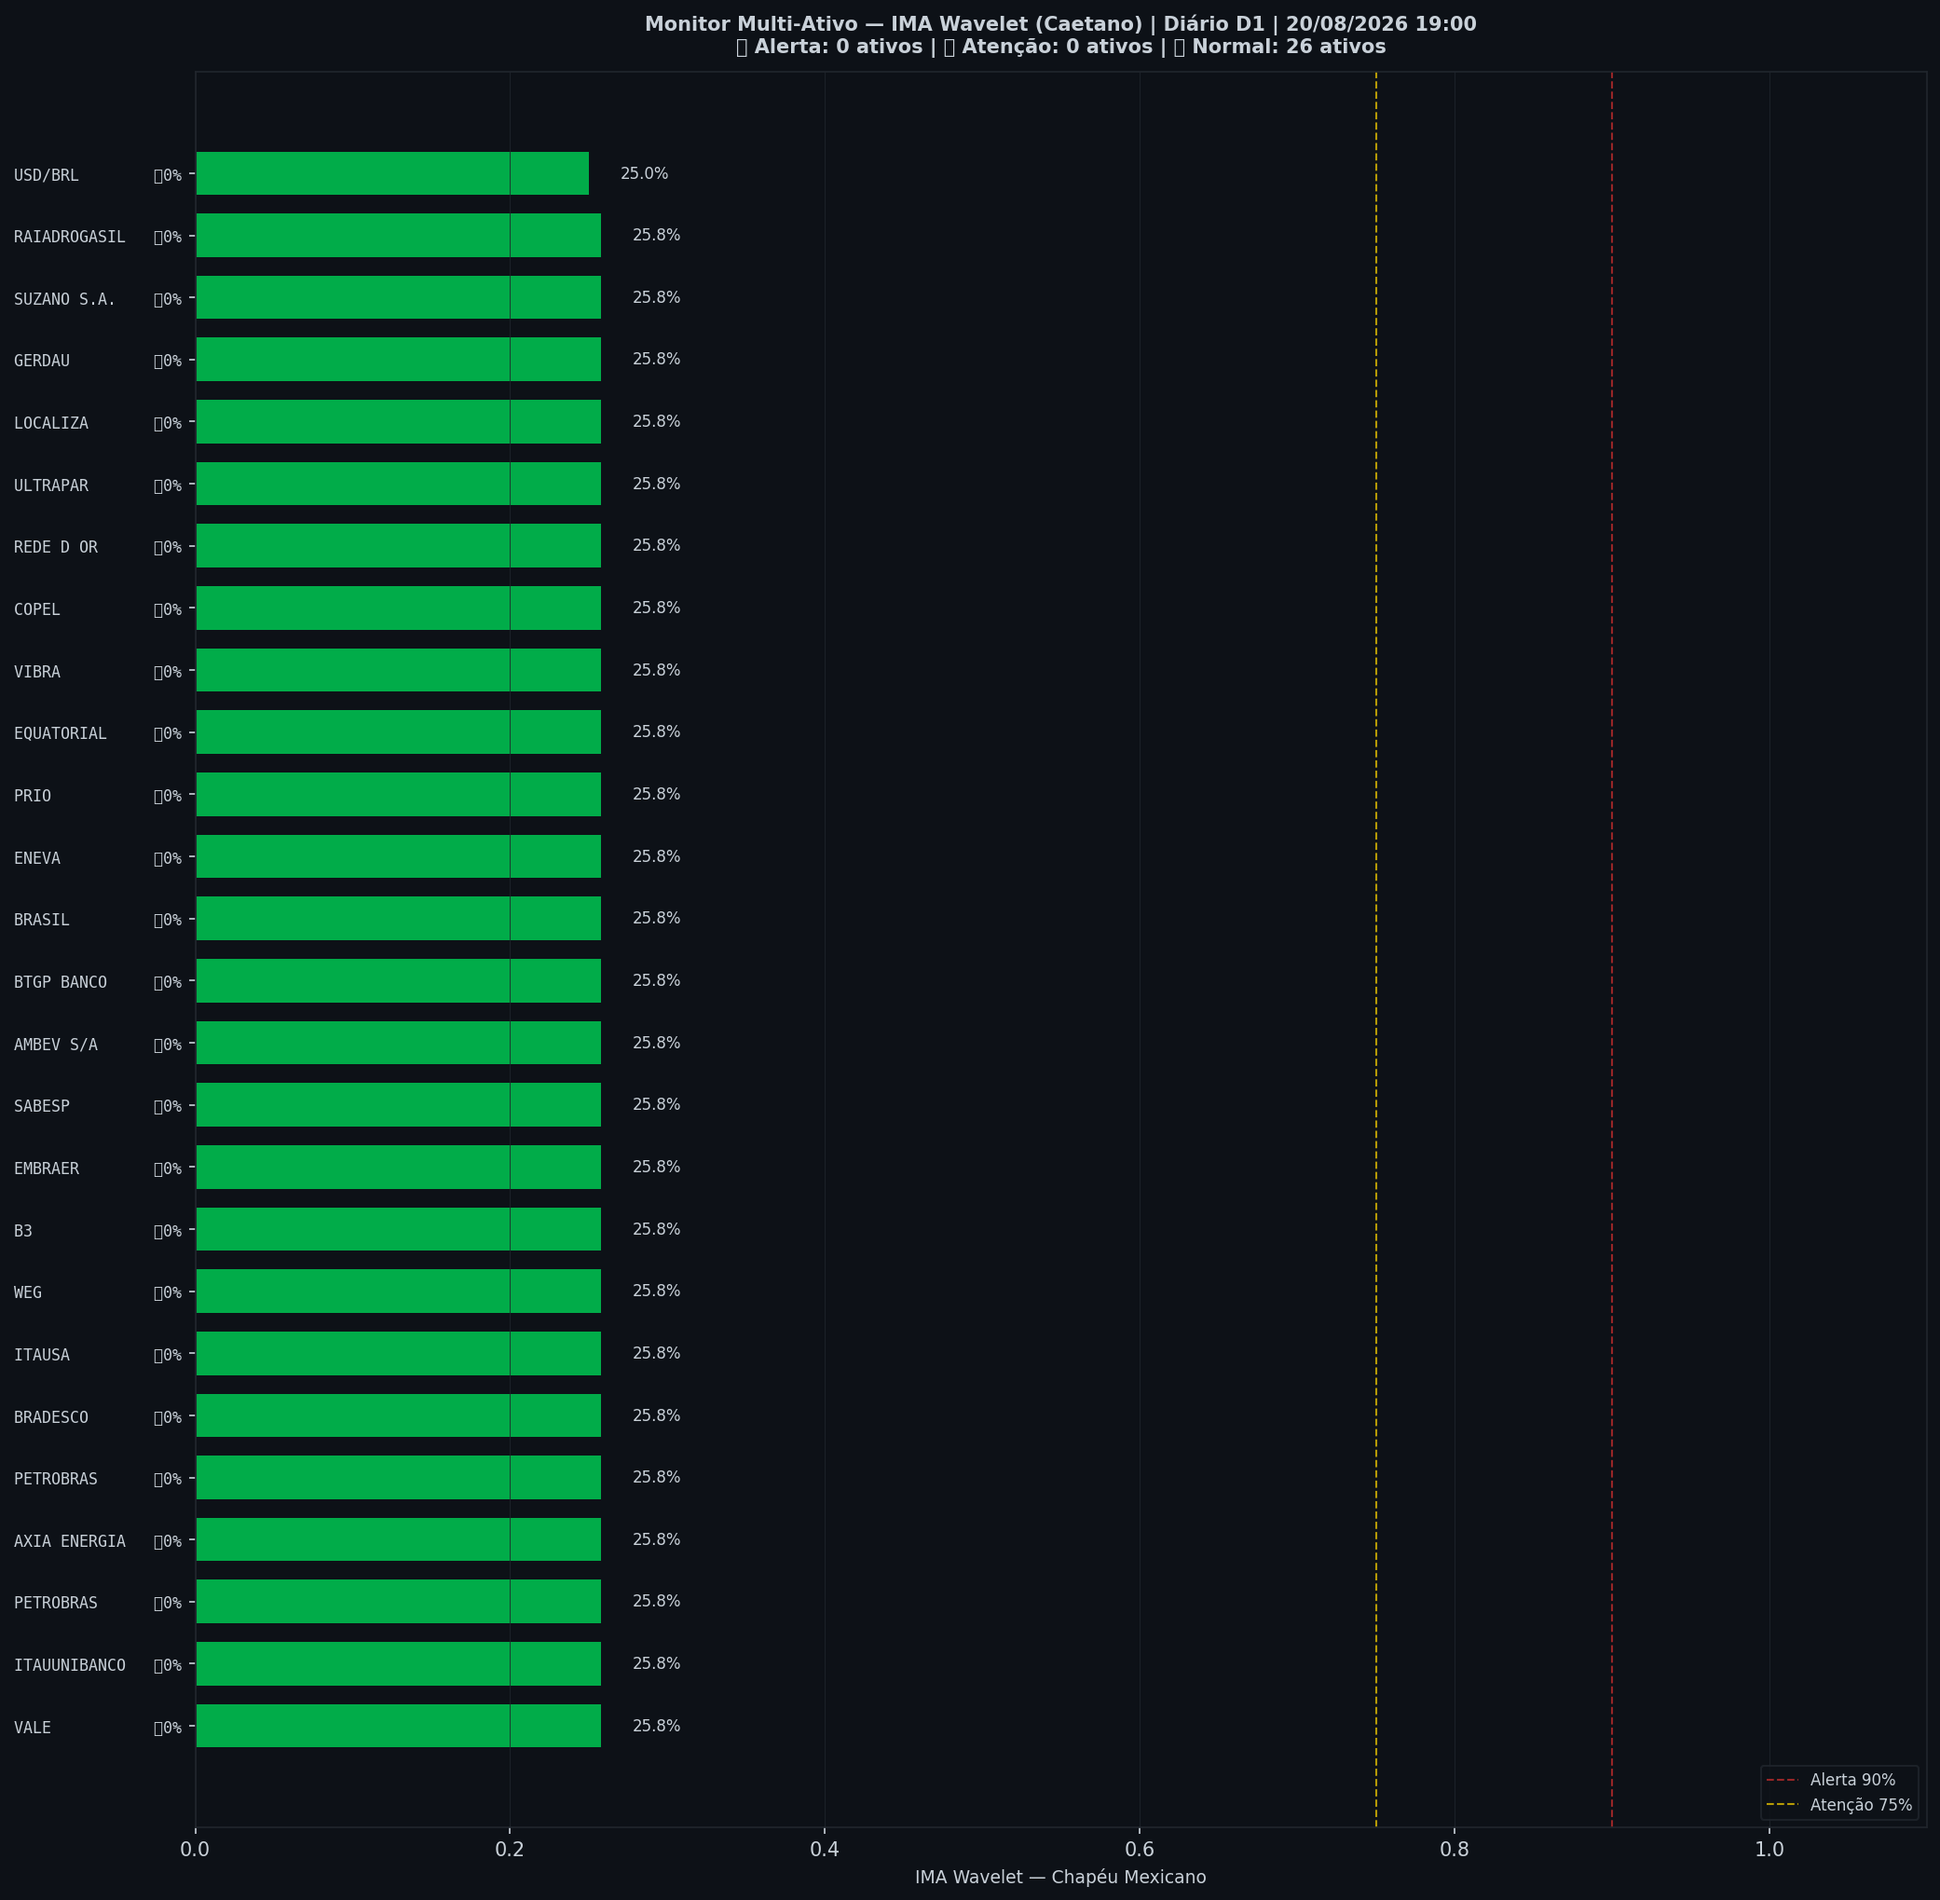
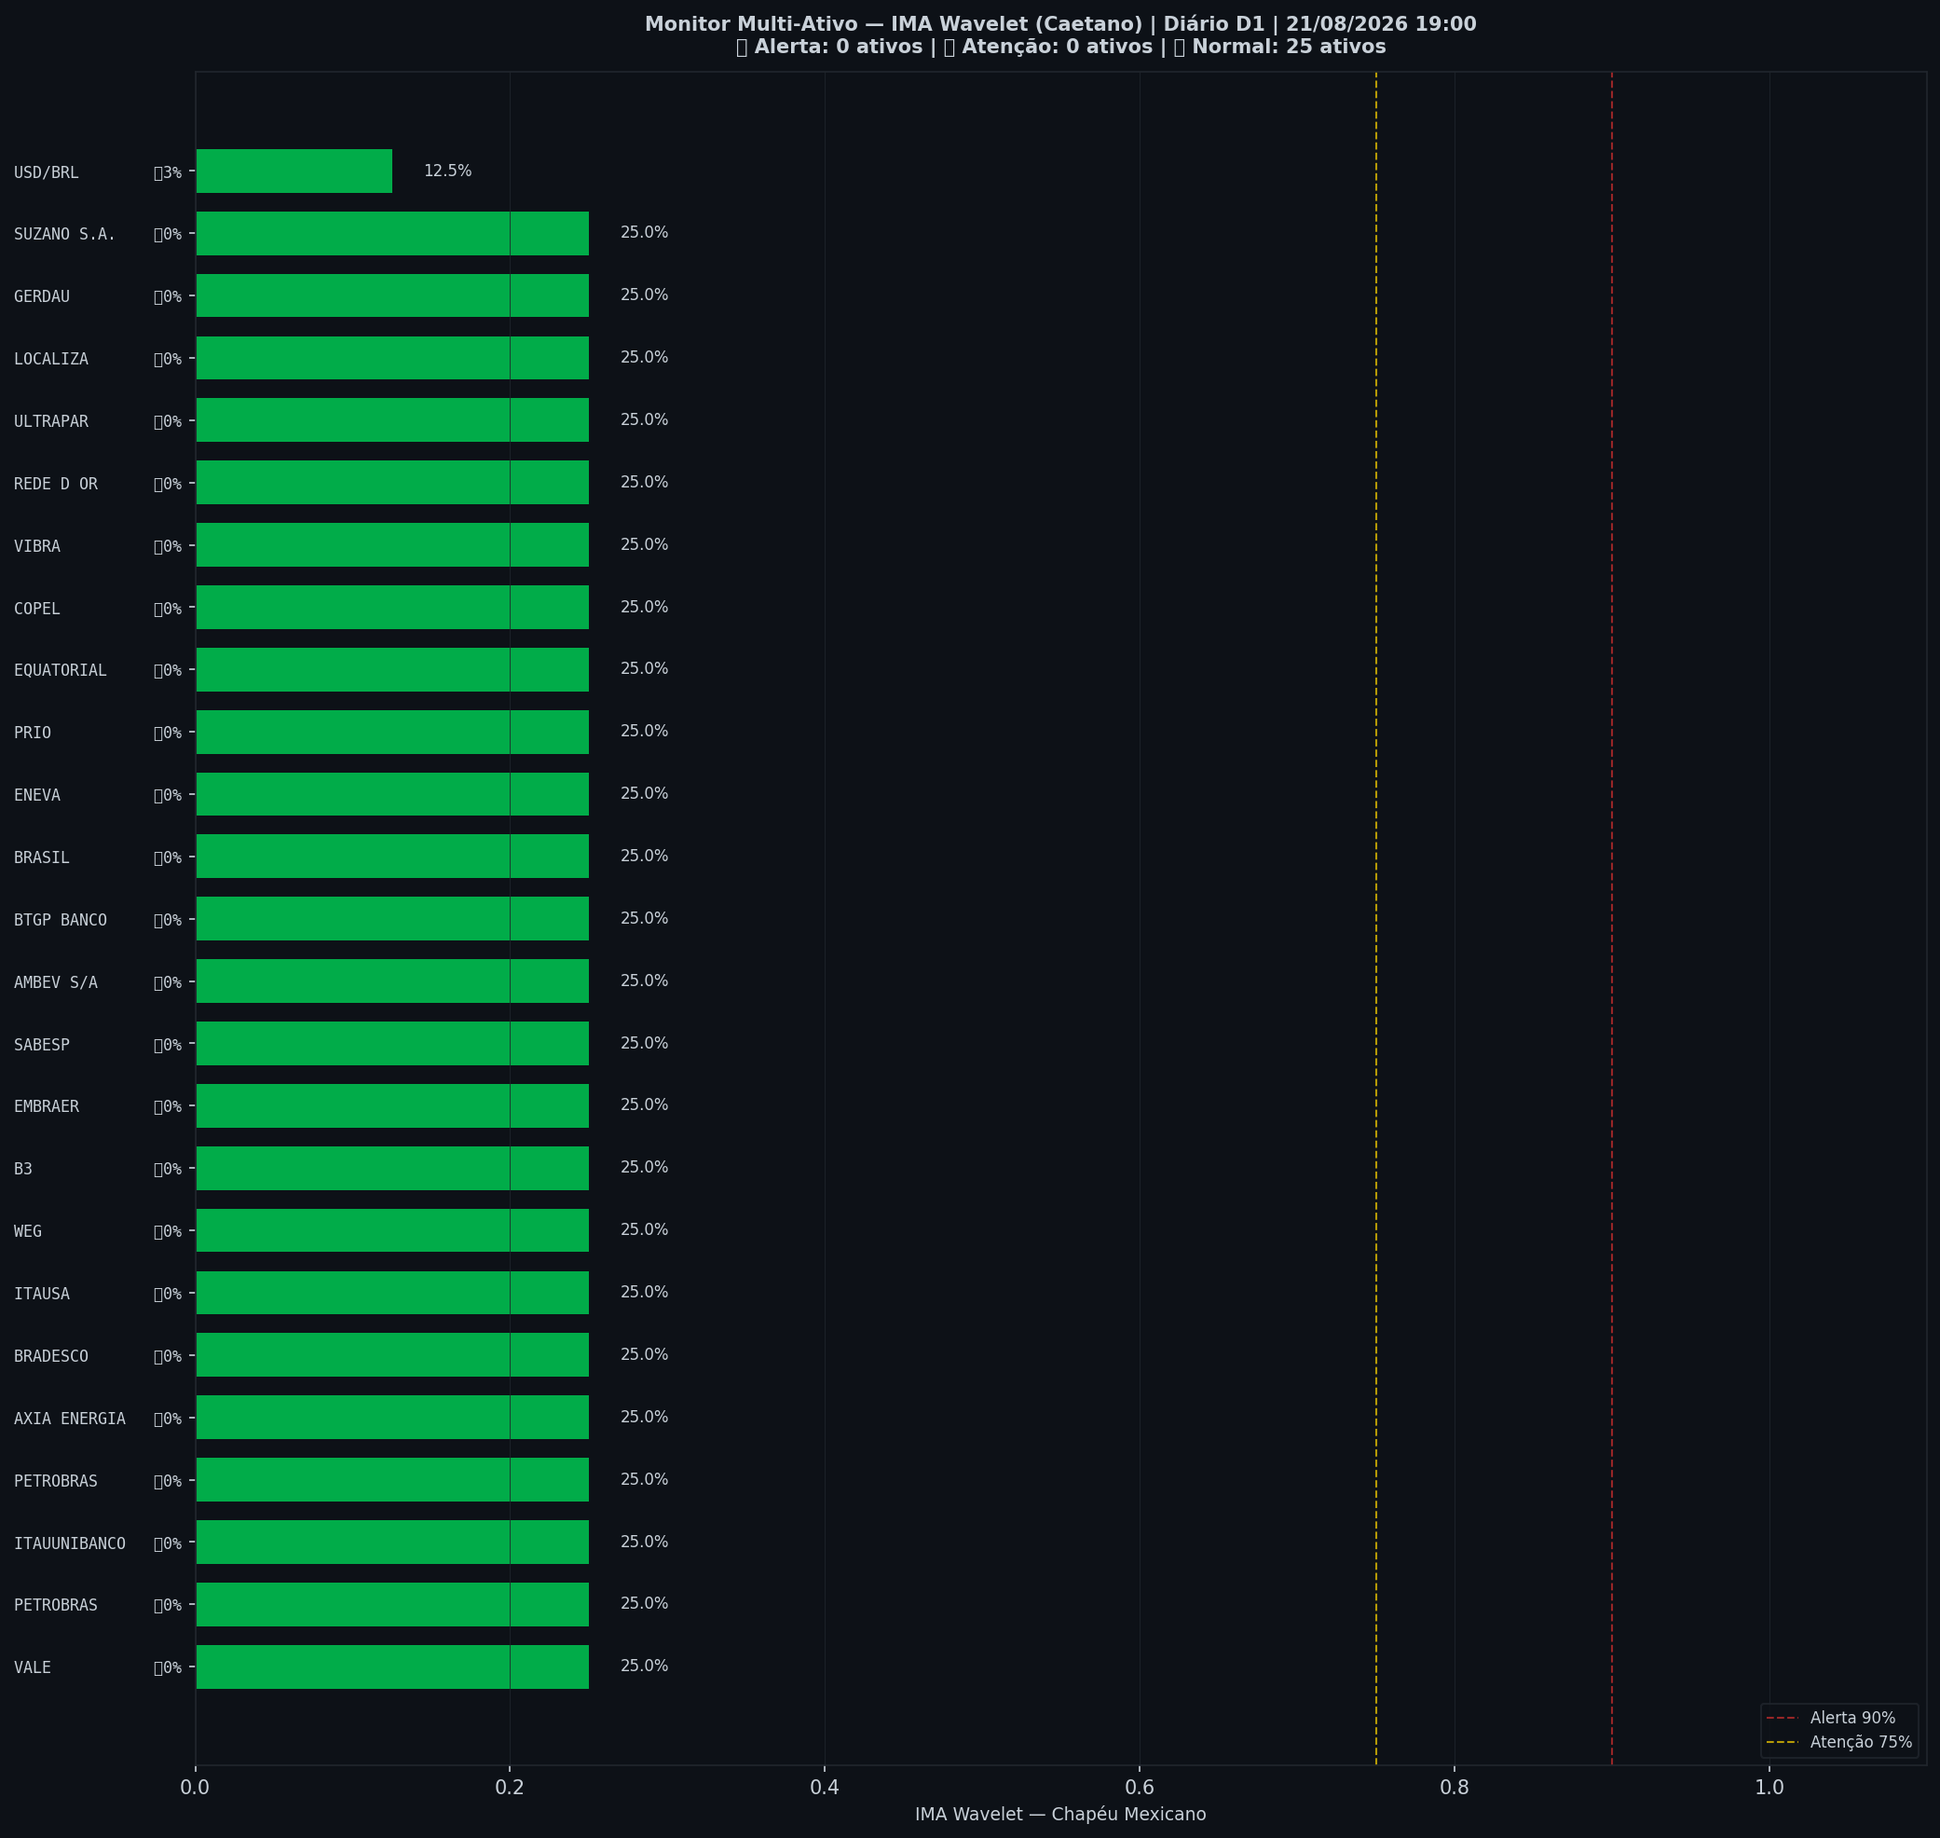
🤖 Auto: Sinal 21/08/2026 19:00

diff --git a/content/diario/2026-08-20.md b/content/diario/2026-08-20.md
@@ -1,0 +1,103 @@
+---
+title: "🟢 Diário 20/08/2026 — VERDE"
+date: 2026-08-21
+tags: [diario]
+---
+
+> [!success] 🟢 **VERDE** — Risco 0% · ＝ +0 p.p. vs leitura anterior
+> `░░░░░░░░░░░░░░░░░░░░`
+> Mercado sem sinais relevantes de estresse.
+
+
+| Indicador | Valor |
+|---|---|
+| 🔴 ζ Crash — severidade da queda em curso | **0%** |
+| 🔵 ζ Entrada — estrutura de fundo | 25% |
+| 🫧 LPPL DS-Confidence | 0% |
+| 📊 Ibovespa | 171.032 pts |
+
+![Gráfico do sinal](../graficos/sinal_diario.png)
+
+## Últimos 30 pregões
+
+| Data | Zona | Risco | IMA Crash | Entrada | LPPL |
+|---|---|---|---|---|---|
+| 2026-08-20 21:00 | 🟢 VERDE | **0%** | 0% | 25% | 0% |
+| 2026-08-19 21:00 | 🟢 VERDE | **0%** | 0% | 27% | 0% |
+| 2026-08-18 21:00 | 🟢 VERDE | **0%** | 0% | 27% | 0% |
+| 2026-08-17 21:00 | 🟢 VERDE | **0%** | 0% | 26% | 0% |
+| 2026-08-16 21:00 | 🟢 VERDE | **0%** | 0% | 25% | 0% |
+| 2026-08-13 21:00 | 🟢 VERDE | **0%** | 0% | 23% | 0% |
+| 2026-08-12 21:00 | 🟢 VERDE | **0%** | 0% | 20% | 0% |
+| 2026-08-11 21:00 | 🟢 VERDE | **0%** | 0% | 65% | 0% |
+| 2026-08-10 21:00 | 🟢 VERDE | **0%** | 1% | 62% | 0% |
+| 2026-08-09 21:00 | 🟢 VERDE | **1%** | 2% | 7% | 0% |
+| 2026-08-06 21:00 | 🟢 VERDE | **0%** | 1% | 48% | 0% |
+| 2026-08-05 21:00 | 🟢 VERDE | **0%** | 1% | 50% | 0% |
+| 2026-08-04 21:00 | 🟢 VERDE | **0%** | 0% | 55% | 0% |
+| 2026-08-03 21:00 | 🟢 VERDE | **0%** | 0% | 59% | 0% |
+| 2026-08-02 21:00 | 🟢 VERDE | **0%** | 0% | 62% | 0% |
+| 2026-07-30 21:00 | 🟢 VERDE | **0%** | 0% | 65% | 0% |
+| 2026-07-29 21:00 | 🟢 VERDE | **0%** | 0% | 68% | 0% |
+| 2026-07-28 21:00 | 🟢 VERDE | **0%** | 0% | 69% | 0% |
+| 2026-07-27 21:00 | 🟢 VERDE | **0%** | 1% | 68% | 0% |
+| 2026-07-26 21:00 | 🟢 VERDE | **0%** | 1% | 71% | 0% |
+| 2026-07-23 21:00 | 🟢 VERDE | **0%** | 0% | 71% | 0% |
+| 2026-07-22 21:00 | 🟢 VERDE | **0%** | 0% | 73% | 0% |
+| 2026-07-21 21:00 | 🟢 VERDE | **0%** | 0% | 77% | 0% |
+| 2026-07-20 21:00 | 🟢 VERDE | **0%** | 0% | 80% | 0% |
+| 2026-07-19 21:00 | 🟢 VERDE | **0%** | 1% | 79% | 0% |
+| 2026-07-16 21:00 | 🟢 VERDE | **0%** | 0% | 80% | 0% |
+| 2026-07-15 21:00 | 🟢 VERDE | **0%** | 1% | 80% | 0% |
+| 2026-07-14 21:00 | 🟢 VERDE | **1%** | 2% | 81% | 0% |
+| 2026-07-13 21:00 | 🟢 VERDE | **0%** | 1% | 85% | 0% |
+| 2026-07-12 21:00 | 🟢 VERDE | **0%** | 0% | 91% | 0% |
+
+## Monitor Multi-Ativo
+
+**0% dos ativos em tensão** (0🔴 0🟡) — quanto mais ativos disparam juntos, mais confiável o sinal.
+
+| Zona | Ativo | Setor | IMA Crash | IMA Entrada |
+|---|---|---|---|---|
+| 🟢 | **VALE** | Mineração | 25.0% | 0.0% |
+| 🟢 | **PETROBRAS** | Petróleo | 25.0% | 0.0% |
+| 🟢 | **ITAUUNIBANCO** | Financeiro | 25.0% | 0.0% |
+| 🟢 | **PETROBRAS** | Petróleo | 25.0% | 0.0% |
+| 🟢 | **AXIA ENERGIA** | Energia | 25.0% | 0.0% |
+| 🟢 | **BRADESCO** | Financeiro | 25.0% | 0.0% |
+| 🟢 | **ITAUSA** | Financeiro | 25.0% | 0.0% |
+| 🟢 | **WEG** | Industrial | 25.0% | 0.0% |
+| 🟢 | **B3** | Financeiro | 25.0% | 0.0% |
+| 🟢 | **EMBRAER** | Outros | 25.0% | 0.0% |
+| 🟢 | **SABESP** | Saneamento | 25.0% | 0.0% |
+| 🟢 | **AMBEV S/A** | Consumo | 25.0% | 0.0% |
+| 🟢 | **BTGP BANCO** | Financeiro | 25.0% | 0.0% |
+| 🟢 | **BRASIL** | Financeiro | 25.0% | 0.0% |
+| 🟢 | **ENEVA** | Energia | 25.0% | 0.0% |
+| 🟢 | **PRIO** | Petróleo | 25.0% | 0.0% |
+| 🟢 | **EQUATORIAL** | Energia | 25.0% | 0.0% |
+| 🟢 | **COPEL** | Energia | 25.0% | 0.0% |
+| 🟢 | **VIBRA** | Energia | 25.0% | 0.0% |
+| 🟢 | **REDE D OR** | Saúde | 25.0% | 0.0% |
+| 🟢 | **ULTRAPAR** | Outros | 25.0% | 0.0% |
+| 🟢 | **LOCALIZA** | Aluguel | 25.0% | 0.0% |
+| 🟢 | **GERDAU** | Siderurgia | 25.0% | 0.0% |
+| 🟢 | **SUZANO S.A.** | Papel/Celulose | 25.0% | 0.0% |
+| 🟢 | **USD/BRL** | Câmbio | 12.5% | 3.1% |
+
+![Monitor multi-ativo](../graficos/multi_diario.png)
+
+*Página atualizada em 21/08/2026 19:00 BRT (leitura da barra de 2026-08-20 BRT).*
+
+> [!info]- Como interpretar (clique para expandir)
+> - **ζ Crash**: fração dos coeficientes wavelet acima do corte (Caetano & Yoneyama 2009). Escala absoluta: ζ=0,90 = 90% dos coeficientes anômalos — historicamente, quedas com ζ≥0,90 foram mais fundas e mais longas. **Mede a severidade do movimento em curso, não prevê o início da queda.**
+> - **ζ Entrada**: coeficientes negativos além do corte — estrutura de fundo, possível região de compra.
+> - **LPPL DS-Confidence**: fração de janelas (60–504 pregões) em que o modelo de bolha de Sornette produz um ajuste válido. 30% já é relevante; acima de 50% é forte evidência de estrutura de bolha.
+> - **Zonas com histerese**: o sinal só muda de zona ao cruzar o limiar de entrada, e só volta ao cruzar o de saída — evita flip-flop diário.
+
+
+---
+*Sinal de Crise B3 v4 · IMA Wavelet ([Caetano & Yoneyama, Physica-A 2007](https://doi.org/10.1016/j.physa.2007.03.054)) + LPPL DS-Confidence (Sornette, ETH-Zurich) · [Metodologia](metodologia) · [Histórico](historico)*
+
+> [!quote]- Aviso
+> Estudo acadêmico. Não constitui recomendação de investimento.

diff --git a/content/index.md b/content/index.md
@@ -4,23 +4,23 @@ date: 2026-08-21
 tags: [home]
 ---
 
-# 🟡 Sinal de Crise B3
+# 🟢 Sinal de Crise B3
 
 Monitoramento diário e intraday do Ibovespa — **IMA Wavelet** (Prof. Marco Antonio Leonel Caetano, ITA/INSPER) + **LPPL DS-Confidence** (Prof. Didier Sornette, ETH-Zurich).
 
-*Última atualização: 21/08/2026 17:30 BRT · ^BVSP · Intraday 15min · v4*
+*Última atualização: 21/08/2026 19:00 BRT · ^BVSP · Diário D1 · v4*
 
-> [!warning] 🟡 **AMARELO** — Risco 60% · ▼ -6 p.p. vs leitura anterior
-> `████████████░░░░░░░░`
-> Atenção — padrão de coeficientes associado a quedas mais severas.
+> [!success] 🟢 **VERDE** — Risco 0% · ＝ +0 p.p. vs leitura anterior
+> `░░░░░░░░░░░░░░░░░░░░`
+> Mercado sem sinais relevantes de estresse.
 
 
 | Indicador | Valor |
 |---|---|
-| 🔴 ζ Crash — severidade da queda em curso | **60%** |
-| 🔵 ζ Entrada — estrutura de fundo | 0% |
+| 🔴 ζ Crash — severidade da queda em curso | **0%** |
+| 🔵 ζ Entrada — estrutura de fundo | 25% |
 | 🫧 LPPL DS-Confidence | 0% |
-| 📊 Ibovespa | 171.015 pts |
+| 📊 Ibovespa | 171.032 pts |
 
 **Multi-ativo:** 0% em tensão (0🔴 0🟡 de 25 ativos)
 
@@ -32,8 +32,13 @@ Monitoramento diário e intraday do Ibovespa — **IMA Wavelet** (Prof. Marco An
 
 | Data | Zona | Risco | IMA | LPPL |
 |---|---|---|---|---|
-| [21 Aug 2026](diario/2026-08-21) | 🟡 AMARELO | **60%** | 60% | 0% |
 | [20 Aug 2026](diario/2026-08-20) | 🟢 VERDE | **0%** | 0% | 0% |
+| [19 Aug 2026](diario/2026-08-19) | 🟢 VERDE | **0%** | 0% | 0% |
+| [18 Aug 2026](diario/2026-08-18) | 🟢 VERDE | **0%** | 0% | 0% |
+| [17 Aug 2026](diario/2026-08-17) | 🟢 VERDE | **0%** | 0% | 0% |
+| [16 Aug 2026](diario/2026-08-16) | 🟢 VERDE | **0%** | 0% | 0% |
+| [13 Aug 2026](diario/2026-08-13) | 🟢 VERDE | **0%** | 0% | 0% |
+| [12 Aug 2026](diario/2026-08-12) | 🟢 VERDE | **0%** | 0% | 0% |
 
 ## Navegação
 

diff --git a/content/historico.md b/content/historico.md
@@ -7,6 +7,7 @@ tags: [historico]
 
 | Data | Modo | Zona | Risco | IMA | LPPL |
 |---|---|---|---|---|---|
+| 2026-08-20 | diario | 🟢 VERDE | 0% | 0% | 0% |
 | 2026-08-21 16:45 | intraday | 🟡 AMARELO | 60% | 60% | 0% |
 | 2026-08-21 16:30 | intraday | 🟡 AMARELO | 66% | 66% | 0% |
 | 2026-08-21 16:15 | intraday | 🟡 AMARELO | 72% | 72% | 0% |
